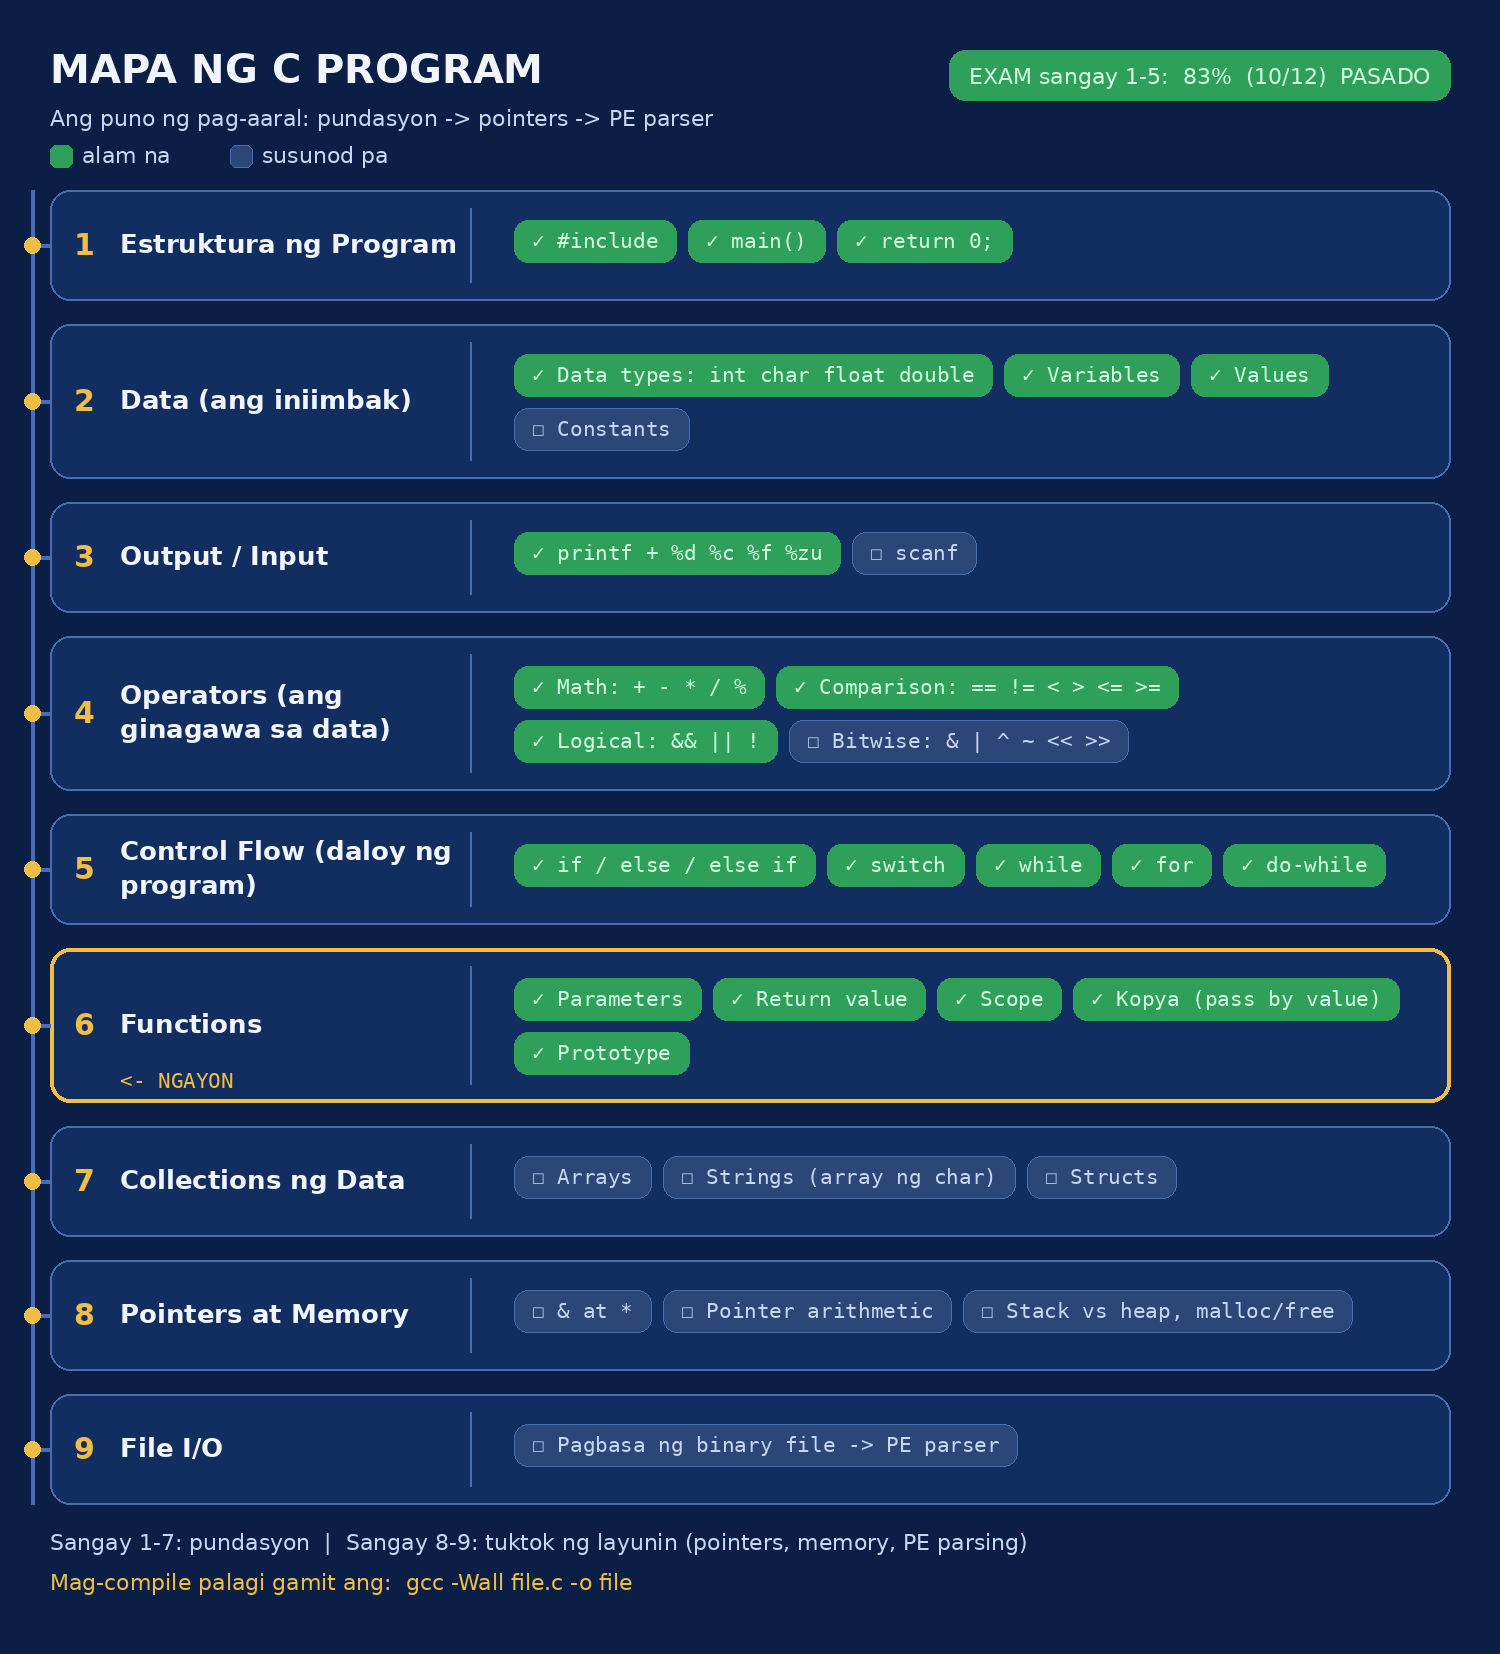
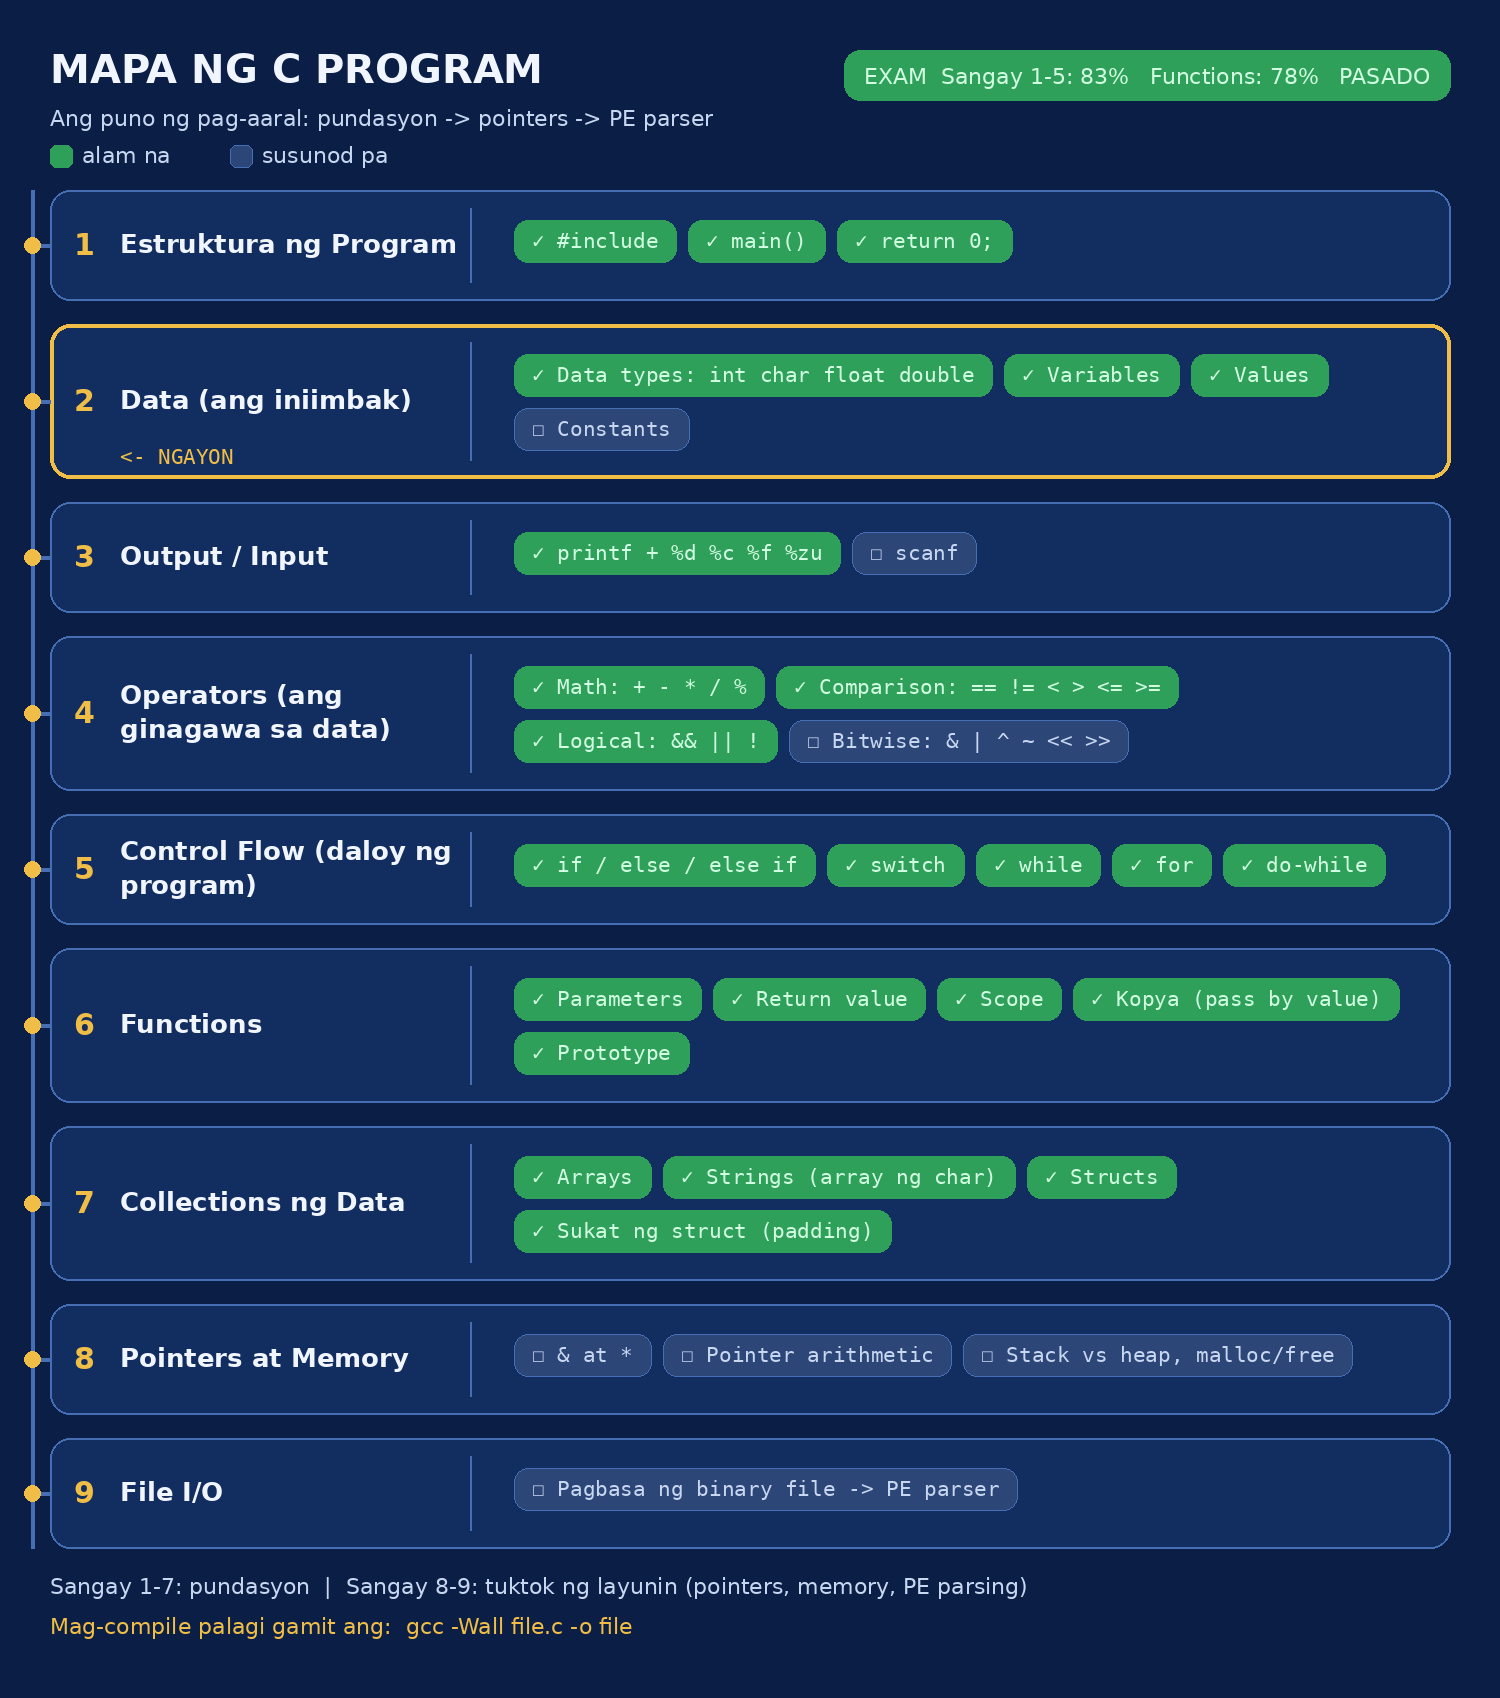
Sangay 8 at Collection and Data Updates: Pointers, Memory, and Sizeof Completed

diff --git a/Collection and Data/6 sizeof.c b/Collection and Data/6 sizeof.c
@@ -1,0 +1,18 @@
+#include <stdio.h>
+
+struct tao {
+    char inisyal;
+    int edad;
+};
+
+int main(void) {
+    printf("char = %zu\n", sizeof(char));
+    printf("int  = %zu\n", sizeof(int));
+    printf("struct tao = %zu\n", sizeof(struct tao));
+    return 0;
+}
+
+// Sa lesson na ito ang sukat ng struct: sizeof(struct tao) ay 8, hindi 5 (1 + 4)
+// nagdagdag ang compiler ng 3 byte na padding pagkatapos ng char
+// alignment: ang int ay gustong magsimula sa posisyong multiple ng 4
+// mahalaga ito sa PE header, dahil may eksaktong posisyon ang bawat field
